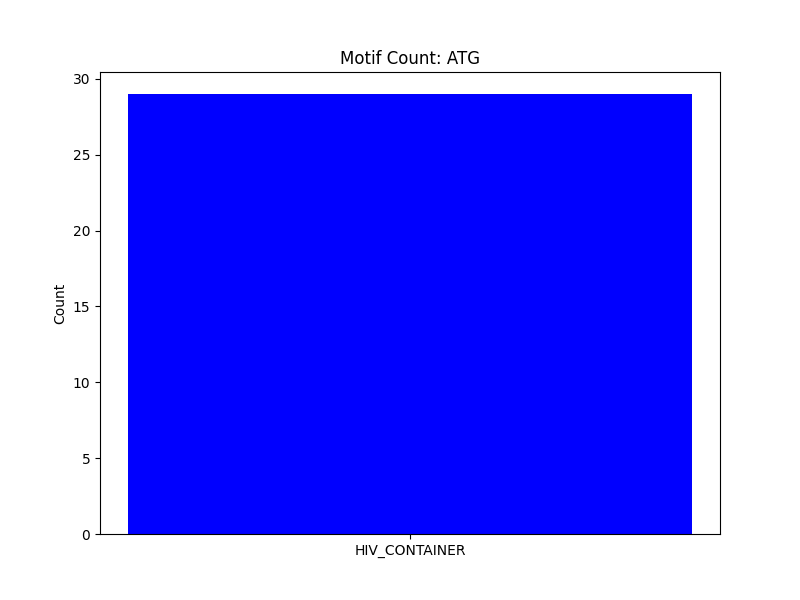
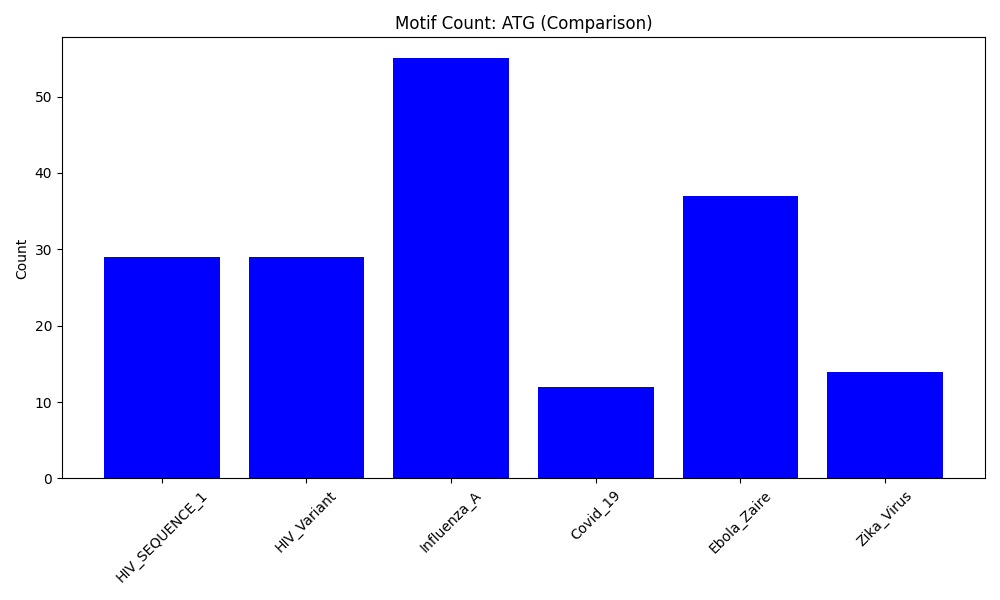
final changes

diff --git a/analysis/analyze_fasta.py b/analysis/analyze_fasta.py
@@ -5,48 +5,67 @@ import matplotlib.pyplot as plt
 
 def main():
     if len(sys.argv) < 3:
-        print("Usage: python analyze_fasta.py <fasta_file> <output_name> <motif>")
+        print("Usage: python analyze_fasta.py <fasta_file> <unused_name> <motif>")
         sys.exit(1)
 
     fasta_file = sys.argv[1]
-    name = sys.argv[2]
-    motif = sys.argv[3]
+    motif = sys.argv[3] # We skip argv[2] (the name) because we read names from file
     
-    print(f"Analyzing {name} for motif {motif}...")
+    print(f"Analyzing {fasta_file} for motif {motif}...")
 
     if not os.path.exists("output"):
         os.makedirs("output")
 
-    count = 0
-    sequence = ""
-    
-    try:
-        with open(fasta_file, 'r') as f:
-            for line in f:
-                if not line.startswith(">"):
-                    sequence += line.strip()
-    except FileNotFoundError:
-        print(f"Error: File {fasta_file} not found.")
-        sys.exit(1)
-    
-    count = sequence.count(motif)
-    
+    # Dictionary to store counts per virus
+    results = {}
+    current_header = None
+    current_sequence = []
+
+    # Manual FASTA parsing
+    with open(fasta_file, 'r') as f:
+        for line in f:
+            line = line.strip()
+            if not line: continue
+            
+            if line.startswith(">"):
+                # Save previous if exists
+                if current_header:
+                    full_seq = "".join(current_sequence)
+                    results[current_header] = full_seq.count(motif)
+                
+                # Start new
+                current_header = line[1:] # Remove >
+                current_sequence = []
+            else:
+                current_sequence.append(line)
+        
+        # Don't forget the last one
+        if current_header:
+            full_seq = "".join(current_sequence)
+            results[current_header] = full_seq.count(motif)
+
     # Save CSV
     csv_path = "output/motif_counts_local.csv"
     with open(csv_path, 'w', newline='') as csvfile:
         writer = csv.writer(csvfile)
         writer.writerow(["Sequence", "Motif", "Count"])
-        writer.writerow([name, motif, count])
+        for name, count in results.items():
+            writer.writerow([name, motif, count])
         
     print(f"Results saved to {csv_path}")
 
     # Create Plot
-    plt.figure(figsize=(8, 6))
-    plt.bar([name], [count], color='blue')
-    plt.title(f"Motif Count: {motif}")
+    names = list(results.keys())
+    counts = list(results.values())
+
+    plt.figure(figsize=(10, 6)) # A bit wider
+    plt.bar(names, counts, color='blue')
+    plt.title(f"Motif Count: {motif} (Comparison)")
     plt.ylabel("Count")
+    plt.xticks(rotation=45) # Rotate names so they don't overlap
+    plt.tight_layout()
     plt.savefig("output/python_motif_hist_local.png")
-    print("Plot saved to output/python_motif_hist_local.png")
+    print("Plot saved.")
 
 if __name__ == "__main__":
     main()
